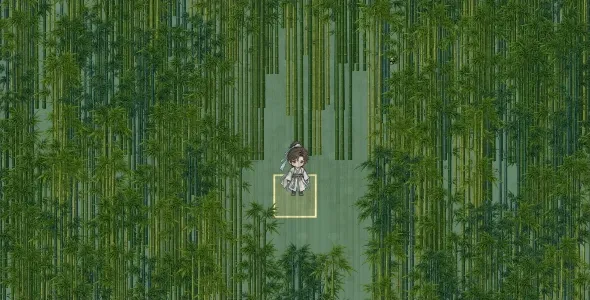
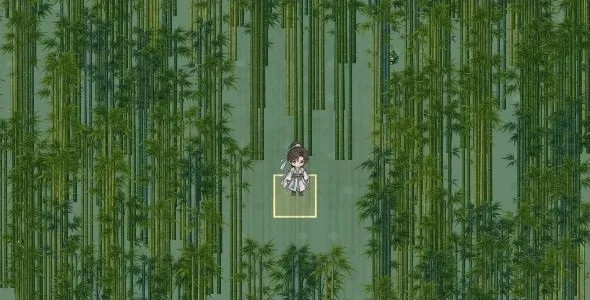
Thin bamboo groves by about 29% while preserving tall upright sprites
Reduce seeded clumps from 2.24 to 1.60 per tile, primarily one or two clumps with occasional dense patches. Update preview, density assertions and module versions.

Validation: 23 targeted tests, module-version check and native Canvas rendering passed.

diff --git a/public/world/world-scenery.js b/public/world/world-scenery.js
@@ -54,17 +54,17 @@
           // Seeded bamboo canopies are deliberately allowed to overlap neighbouring
           // tiles. Their foot is still in this tile; no terrain or collision changes.
           const density=W.hash(x,y,92)%100;
-          if(density<96){
+          if(density<90){
             add('bamboo-tall-'+((h>>>12)%4),82+h%11);
-            // Two or three staggered clumps fill most cells, with small seeded
-            // clearings. Roots remain in their tile and never change collisions.
-            if(density<84){
+            // Mostly one or two staggered clumps, with occasional denser patches
+            // and seeded clearings. Roots never change terrain or collisions.
+            if(density<55){
               add('bamboo-tall-'+((h>>>20)%4),76+((h>>>5)%9));
               const extra=items[items.length-1];
               extra.x+=((h>>>25)&1)?.30:-.30;
               extra.y-=.12;
             }
-            if(density<44){
+            if(density<15){
               add('bamboo-tall-'+((h>>>23)%4),72+((h>>>3)%9));
               const extra=items[items.length-1];
               extra.x+=((h>>>25)&1)?-.29:.29;

diff --git a/docs/design/world-scenery/bamboo-upright.md b/docs/design/world-scenery/bamboo-upright.md
@@ -2,7 +2,7 @@
 
 正式素材：`public/assets/world-map/ai/bamboo-upright-atlas.webp`。使用內建圖像生成工具產生透明竹子圖集，再等比例縮小、封裝為 768 × 1536 WebP（213,298 bytes）。四個獨立變體各 384 × 768，維持原始 1:2 比例，取代舊的 128 × 256 竹林圖集。
 
-每格竹林的主竹叢出現率為 96%，第二叢為 84%，第三叢為 44%；平均 2.24 叢，原本為 1.08 叢。顯示高度 144–184px，約 3.6–4.6 格。位置、尺寸、變體都由既有世界種子決定，不改變地形、通行或儲存資料。
+每格竹林的主竹叢出現率為 90%，第二叢為 55%，第三叢為 15%；平均 1.60 叢，比上一版的 2.24 叢減少約 29%，以一至兩叢為主，少數區域保留三叢。顯示高度 144–184px，約 3.6–4.6 格。位置、尺寸、變體都由既有世界種子決定，不改變地形、通行或儲存資料。
 
 繪製範圍向兩側延伸 2 格、向下延伸 5 格，保留畫面外根部對應的可見竹冠，並延伸建築保留範圍。遮住本機玩家的前景竹叢透明度降至 8%，其餘竹林正常顯示。
 
